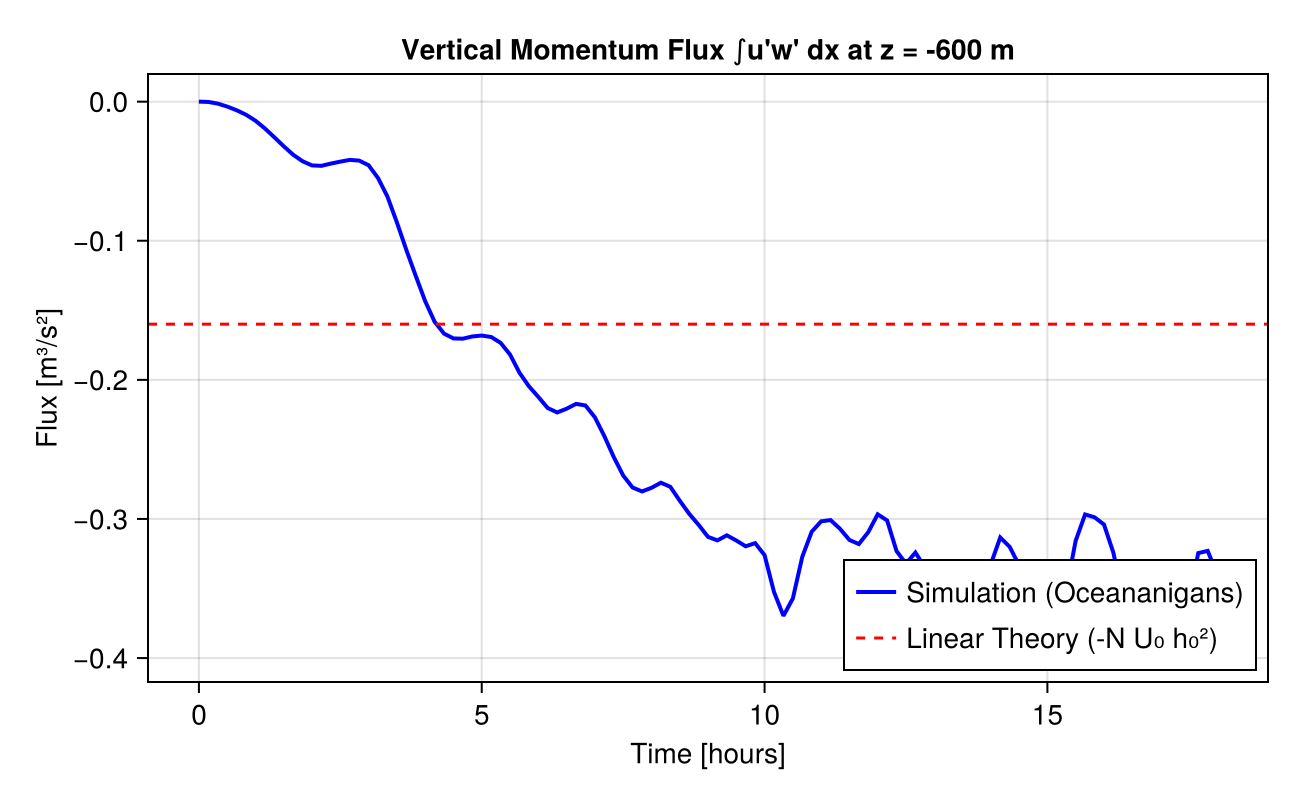
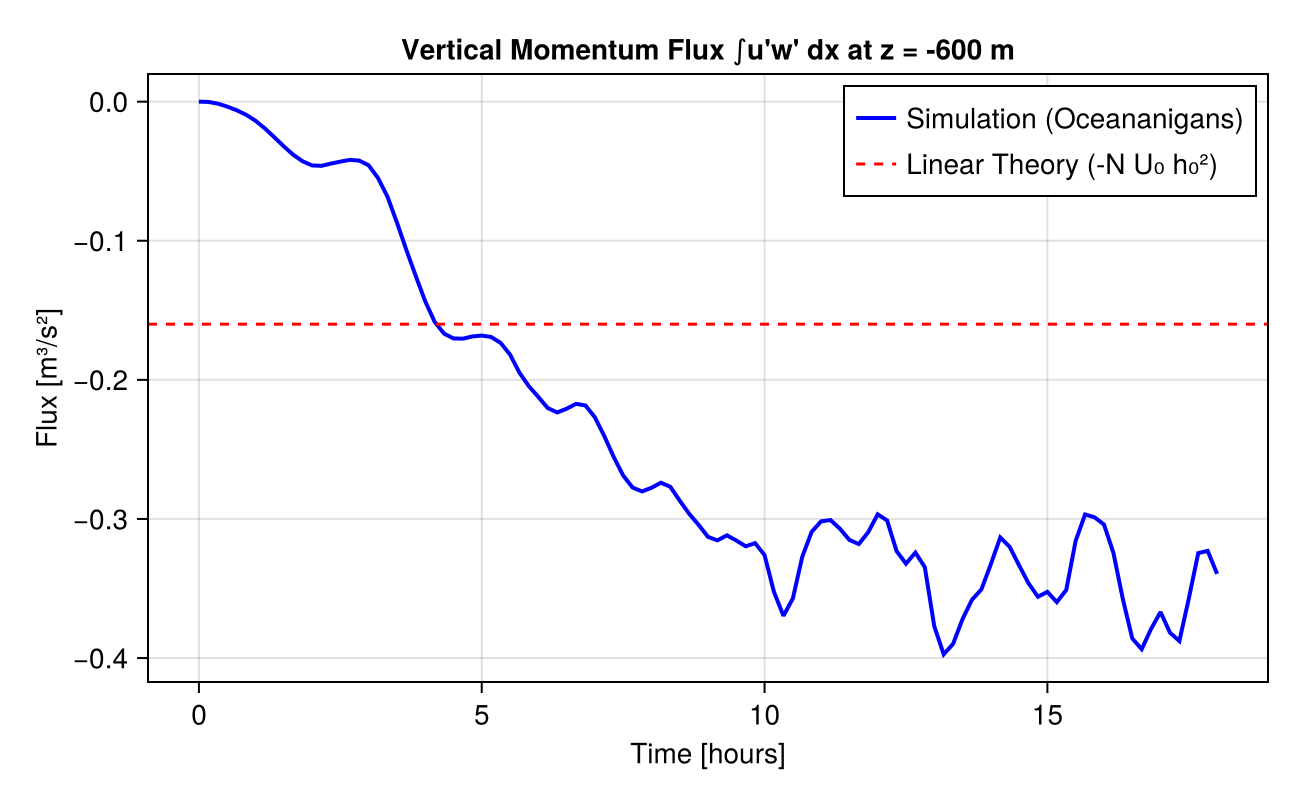
Record exact result of the full demo run (2.22 x N U h0^2); move the plot legend; add replot helper

Changed region(s): [[0.6462, 0.6875, 0.9846, 0.8438], [0.6462, 0.125, 0.9538, 0.25]]

diff --git a/validation_log.md b/validation_log.md
@@ -23,7 +23,7 @@ Tolerance chosen for this demo: about 10 %. Dates: fill in.
 | 11 | | f=0, Nx=1024, Nz=256, Centered advection | `run_case.jl 0.0 nx=1024 centered` | not run | Planned: does the advection scheme matter? Same grid as run 8. Row 14 is partial evidence (not like for like). |
 | 12 | | f=0, Nx=1024, Nz=256, dt = 10 s | (option not yet in the script) | not run | Planned: does the time step matter? |
 | 13 | | f=0, Nx=1024, Nz=256, partial-cell ridge | (option not yet in the script) | not run | Planned: does the representation of the ridge matter? Partial cells may not be supported by the pressure solver. |
-| 14 | | Updated single-file demo (f = 0, N = 2e-3, dt = 20 s, Centered advection, 18 h) | `internal_wave_demo_corrected.jl` | **about 2 x the red line (read from the plot; exact value to be filled in)** | Took 1.47 h (my estimate of 25-30 min was wrong). Flux at z = -600 m crosses the red line (0.16 m^3/s^2) at about 4 h, reaches about 0.3 by 10 h and then oscillates between about 0.30 and 0.37 (period about 2 h). The prediction of 1.4-1.5 failed. My linear model with the lid and the demo's sponge (velocities only, not buoyancy) predicts 1.02 at 16-18 h with no oscillations, so lid and sponge do not explain it. The ratio is higher than WENO on the same grid (1.46, run 3), which suggests the advection scheme matters, but the flux level (380 m above the crest), window and duration differ from `compare.jl`, so the comparison is not clean. |
+| 14 | | Updated single-file demo (f = 0, N = 2e-3, dt = 20 s, Centered advection, 18 h) | `internal_wave_demo_corrected.jl` | **2.22 x the red line (2.27 x the steady linear value, 0.980)** | Mean drag over the last 2 h = 2.224 N U h0^2, with a drift of 10 % over that window (`replot_demo_flux.jl`). Took 1.47 h (my estimate of 25-30 min was wrong). The flux at z = -600 m crosses the red line (0.16 m^3/s^2) at about 4 h, reaches about 0.3 by 10 h and then oscillates (period about 2 h). The prediction of 1.4-1.5 failed. My linear model with the lid and the demo's sponge (velocities only, not buoyancy) predicts 1.02 at 16-18 h with no oscillations, so lid and sponge do not explain it. The result is well above WENO on the same grid (1.46, run 3), which suggests the advection scheme matters strongly, but the flux level (380 m above the crest), window and duration differ from `compare.jl`, so the comparison is not clean. |
 
 ## Checks (own Python calculations, in `checks/`)
 - Steady linear model with rigid lid and the same sponge (200 m, 600 s): drag/ref = 0.915;

diff --git a/README.md b/README.md
@@ -80,7 +80,7 @@ diagnostic itself (applied to the exact linear solution on the staggered grid it
 checked in Python).
 
 Partial evidence on the advection scheme: the single-file demo (`internal_wave_demo_corrected.jl`, Centered
-advection) gave about twice the linear drag, against about 1.5 times with WENO on the same grid (row 14 of the
+advection) gave about 2.3 times the steady linear drag, against about 1.5 times with WENO on the same grid (row 14 of the
 log). That comparison is not like for like (different flux level, window and duration), so a clean test is
 planned. Not yet tested: the time step and how the immersed ridge is represented. Whether the offset is a
 model or numerical effect, or a difference between the simulation and the linear problem that I have not
@@ -123,7 +123,7 @@ files (`lee_*.jld2`, up to about 100 MB each) are not kept in the repository.
 | `CHANGELOG.md` | How the scripts evolved from the starting script |
 | `figures/` | Comparison figures |
 | `archive/` | The starting script, unmodified, and why it was replaced |
-| `internal_wave_demo_corrected.jl` | An updated copy of the starting script with its parameters corrected, as a single-file demo (full run: about twice the linear drag; see the log) |
+| `internal_wave_demo_corrected.jl` | An updated copy of the starting script with its parameters corrected, as a single-file demo (full run: about 2.3 times the linear drag; see the log) |
 | `checks/` | Independent Python calculations |
 
 ## References

diff --git a/CHANGELOG.md b/CHANGELOG.md
@@ -3,7 +3,7 @@
 Changes from the starting script (`archive/internal_wave_demo.jl`, kept unmodified) to the current
 scripts. It was added to the repository after the later versions, so the git history itself begins at the
 theory stage. `internal_wave_demo_corrected.jl` is an updated copy of the starting script with only its
-parameters corrected (changes marked in the file; the full 18 h run gave about twice the linear drag, see `validation_log.md`). The first commits hold the first versions of the
+parameters corrected (changes marked in the file; the full 18 h run gave about 2.3 times the linear drag, see `validation_log.md`). The first commits hold the first versions of the
 theory and simulation scripts; edits made before them are listed below, **reconstructed from
 development notes, not from commits.** See `archive/about_starting_script.md` for what was wrong
 with the starting script.
